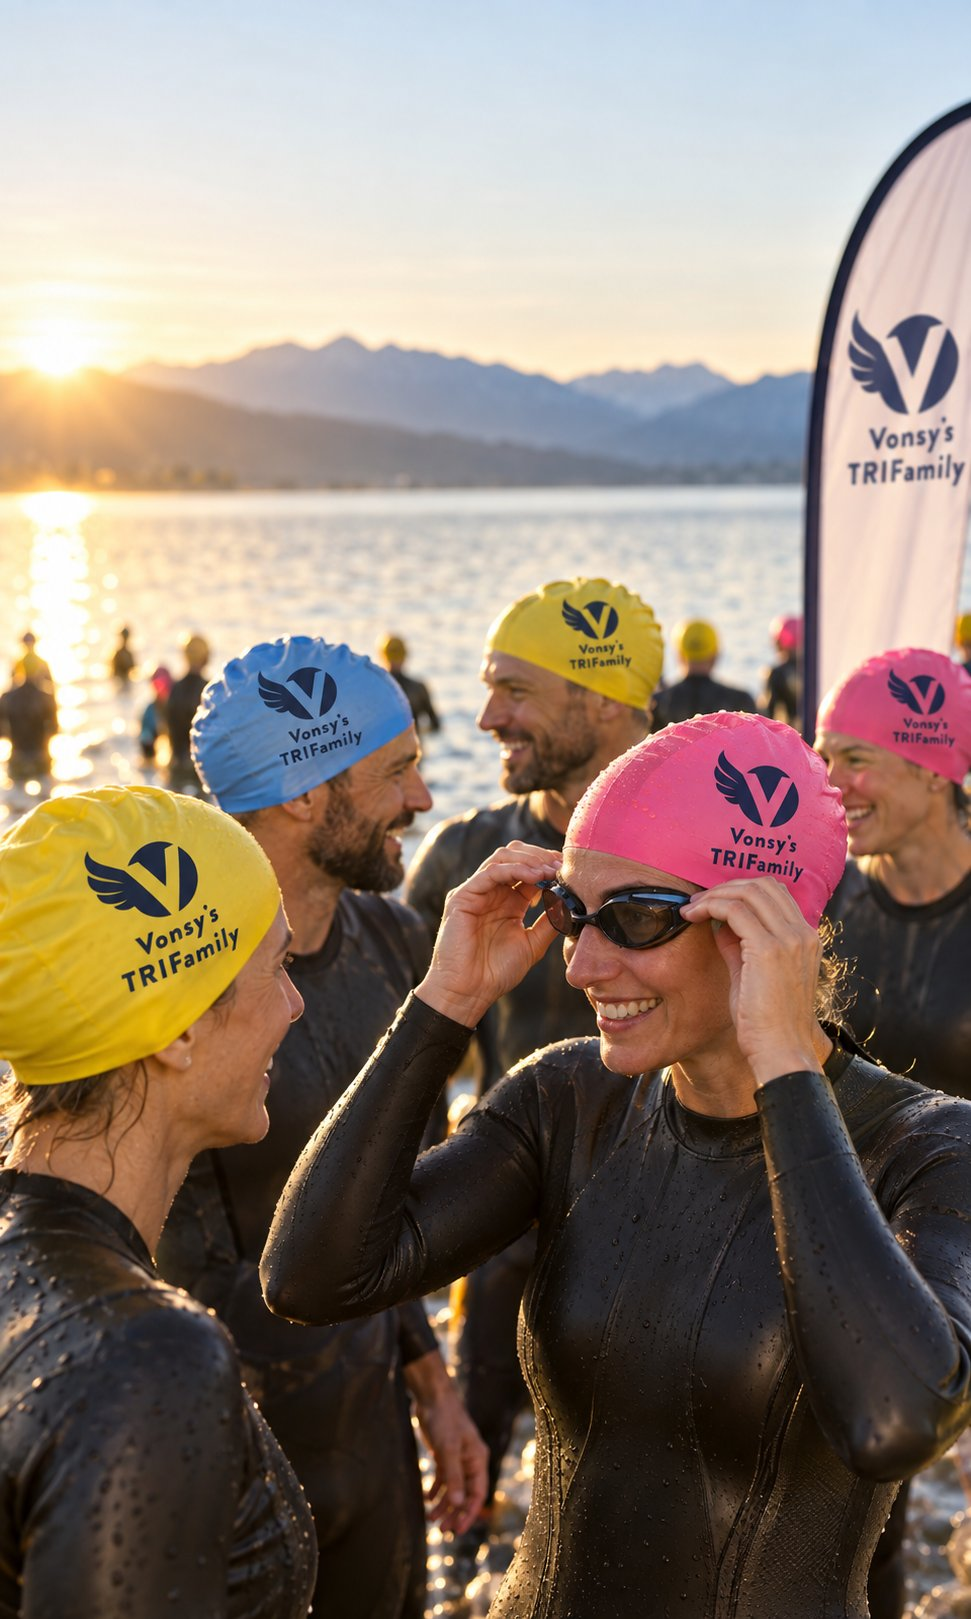
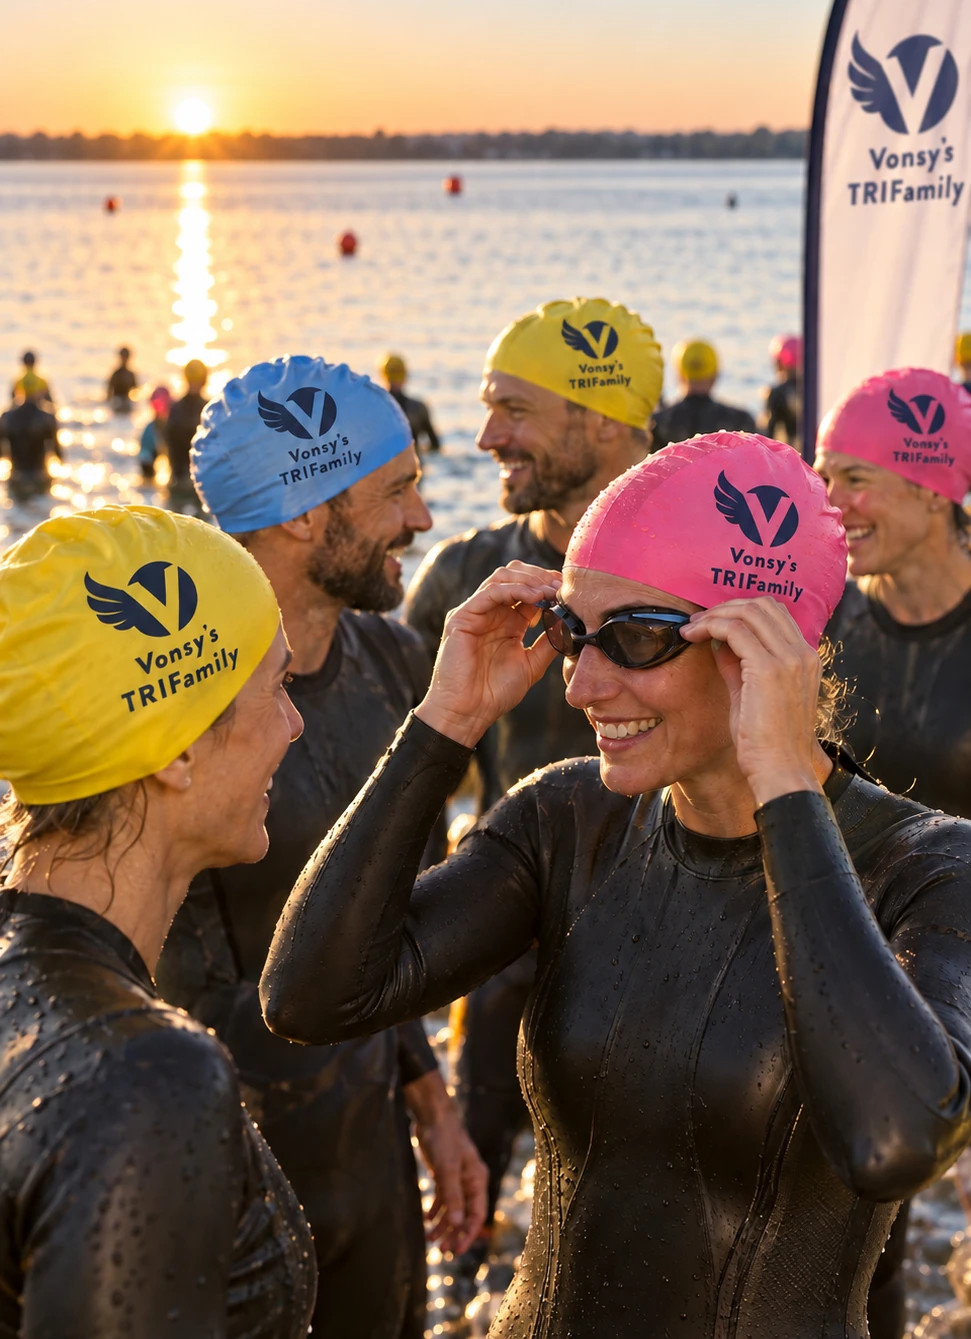
Sportlerprofile-Hero: neues Foto ohne Gebirge, maximal gekürzt
sportlerprofile-hero.jpg durch neue Aufnahme ersetzt (Athletinnen und
Athleten mit Vereins-Badekappen am Seeufer, flache Landschaft statt
Bergkulisse, gleiche Marke/Szene wie die anderen Hero-Fotos). Oben um
280px gekürzt (971x1619 -> 971x1339) - hier zusaetzlich zu
Kicker+Ueberschrift+Claim auch den "The Team"-Kicker beruecksichtigt,
der bei dieser Seite mehr Platz braucht als bei Startseite/Meine
Daten. Nur sportlerprofile.php bekommt das kuerzere Seitenverhaeltnis
per Inline-Style.

Claude-Session: https://claude.ai/code/session_01Nknp68H4QGcrGPWcEcMSp8

diff --git a/htdocs/bereich/sportlerprofile.php b/htdocs/bereich/sportlerprofile.php
@@ -31,7 +31,10 @@ $mitgliederListe = $pdo->query(
          1:1 aus kopf.php uebernommen. Foto-Hero analog zu login.php,
          home.php und der Meine-Daten-Seite. Siehe Master-Prompt in
          CLAUDE.md. -->
-    <div class="home-hero" style="background-image:url('../assets/img/brand/sportlerprofile-hero.jpg?v=<?= cacheV('assets/img/brand/sportlerprofile-hero.jpg') ?>');">
+    <!-- Eigenes, kuerzeres Seitenverhaeltnis nur fuer dieses Foto (971x1339
+         statt 971x1619) - die anderen Seiten mit .home-hero behalten das
+         Standard-Seitenverhaeltnis aus style.css unveraendert. -->
+    <div class="home-hero" style="background-image:url('../assets/img/brand/sportlerprofile-hero.jpg?v=<?= cacheV('assets/img/brand/sportlerprofile-hero.jpg') ?>'); aspect-ratio: 971 / 1339;">
         <div class="home-hero__topbar">
             <a href="home.php" class="home-hero__brand" aria-label="Startseite">
                 <img class="home-hero__logo" src="../assets/img/logo.jpg?v=<?= cacheV('assets/img/logo.jpg') ?>" alt="Logo <?= e(VEREIN_NAME) ?>">
